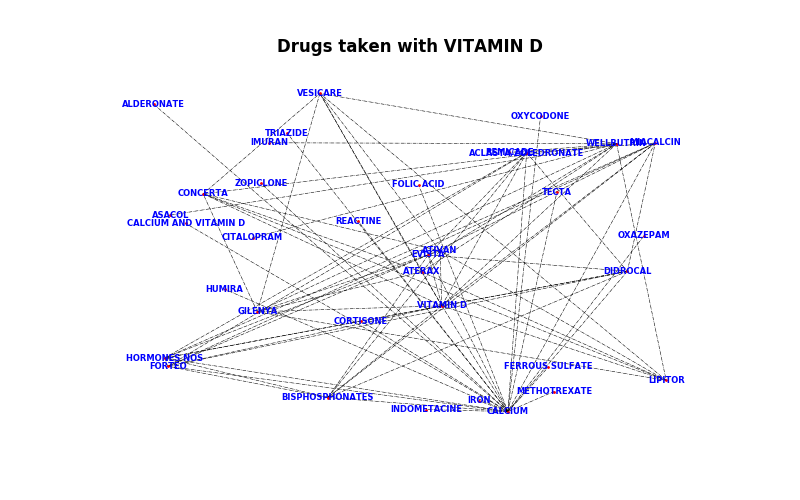
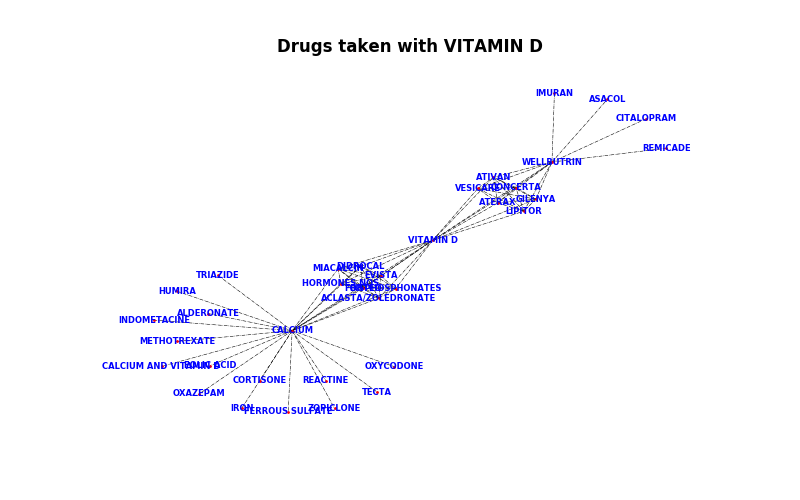
graph plotting improvement

Changed region(s): [[0.125, 0.18, 0.875, 0.84], [0.1562, 0.18, 0.2188, 0.24], [0.3125, 0.51, 0.3438, 0.54]]

diff --git a/DrugCliques2.py b/DrugCliques2.py
@@ -76,7 +76,7 @@ for e in E:
     G.add_edge(e[0],e[1])
     
 fig, ax = plt.subplots(figsize=(8,5))    
-nx.draw_random(G,with_labels=True, width=0.4,style='dashdot',node_size=1,font_weight='bold',font_size=6,font_color='b')
+nx.draw(G,with_labels=True, width=0.4,style='dashdot',node_size=1,font_weight='bold',font_size=6,font_color='b')
 title="Drugs taken with {}".format(root)
 ax.set_title(title, fontweight="bold")
 ax.set_xticks([])
